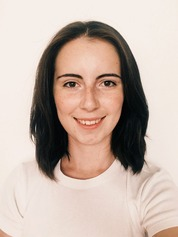
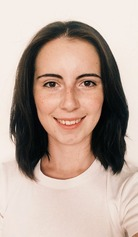
rules, contacts, about us

diff --git a/Pexeso/index.html b/Pexeso/index.html
@@ -33,54 +33,53 @@
 </nav>
 
 <div id="mainContent">
-   <a href="html/pexeso.html"> <div id="leftContent">pexeso game</div> </a>
-   <a href="../MemoryGame/memoryGame.html"> <div id="rightContent">memory game</div> </a>
+   <a href="html/pexeso.html"> <div id="leftContent">pexeso</div> </a>
+   <a href="../MemoryGame/memoryGame.html"> <div id="rightContent">memory</div> </a>
 </div>
 </div>
 
 <!-- first Container -->
-<div id="rules" class="container-fluid bg-1">
-  <div class="row my-row">
-          <div class="col-sm-6">
-            <div class="content">
-            <h3 class="margin">pexeso rules</h3>
-            <ul type="square">
-              <li> Mix up small cards. </li>
-              <li> They will be laid in rows and faced down. </li>
-              <li> Turn over any two small cards. </li>
-              <li> If they match then keep them. </li>
-              <li> If there is not match then turn small cards back over. </li>
-              <li> Remember text or picture and positions of the cards. </li>
-              <li> Second player will turn over small cards. </li>
-              <li> Memory game is over when all small cards have been matched. </li>
-              <li> The player with the most matches of the cards becomes winner. </li>
+<div id="rules" class="container-fluid bg-1 text-center">
+  <div class="read-more">
+  <div class="row my-row text-left">
+            <div class="col-sm-6">
+              <h3 class="margin text-center">pexeso rules</h3>
+              <ul type="square">
+                <li> The game must be played by two players. </li>
+                <li> The cards are automatically mixed up. </li>
+                <li> They are laid in playing field and faced down. </li>
+                <li> Turn over any two cards. </li>
+                <li> If they match you get the cards under your name as a point. </li>
+                <li> If there is no match then another player has turn. </li>
+                <li> Pexeso game is over when all cards are matched. </li>
+                <li> The player with the most matches of the cards becomes winner. </li>
             </ul>
           </div>
-        </div>
-    <div class="col-sm-6">
-      <div class="content">
-        <h3 class="margin">memory rules</h3>
+
+    <div class="col-md-6 text-left">
+        <h3 class="margin text-center">memory rules</h3>
           <ul type="square">
-            <li> Mix up small cards. </li>
-            <li> They will be laid in rows and faced down. </li>
-            <li> Turn over any two small cards. </li>
-            <li> If they match then keep them. </li>
-            <li> If there is not match then turn small cards back over. </li>
-            <li> Remember text or picture and positions of the cards. </li>
-            <li> Second player will turn over small cards. </li>
-            <li> Memory game is over when all small cards have been matched. </li>
-            <li> The player with the most matches of the cards becomes winner. </li>
+            <li> The game must be played by one player. </li>
+            <li> Remember positions of pictures as they will be shown for 3 seconds at the start. </li>
+            <li> Turn over any two cards you remembered as quick as possible. </li>
+            <li> The score depends on the time and the number of clicks. </li>
+            <li> If they match you get the cards under your name as a point.  </li>
+            <li> If there is not match, try again. </li>
+            <li> Memory game is over when all cards are matched. </li>
+            <li> You can exercise your memory by re-playing the game and trying to get better score. </li>
           </ul>
         </div>
       </div>
-</div>
-</div>
+    </div>
+  </div>
+
 
 <div id="aboutUs" class="container-fluid bg-2 text-center">
   <h3 class="margin">about us</h3>
   <div class="read-more text-left">
   <p><b>mt*csl</b> is a company founded by Mima, Thomas, Claudia, Sonia and Lucy.
-Launched in September of 2018, the site is focused at memo games with educational character.</p><br>
+Launched in September of 2018, the site is focused at memo games with educational character focused on eastern part of Slovakia, especially at Kosice city.
+</p><br>
 <p>mt*csl focuses on the creative community, with the goal of making the design and technology world personal.
   We don’t only cover games, objects and trends, but rather the story behind them.</p>
   <p>We believe the idea of <i>“game”</i> is one that stretches beyond the brain inside it, so we will, from time to time, have discussions about larger cultural issues that affect our community.</p>
@@ -132,7 +131,7 @@ Launched in September of 2018, the site is focused at memo games with educationa
   <div class="row my-row">
       <div class="col-sm-4">
         <div class="thumbnail">
-      <img src="img/Miriam.jpg" alt="Klaudia">
+      <img src="img/Claudia.jpg" alt="Klaudia">
     </div>
   </div>
 
@@ -152,13 +151,13 @@ Launched in September of 2018, the site is focused at memo games with educationa
       <div class="col-md-8 text-left">
         <div class="content">
           <h3 class="person-name hidden-xs-active text-left">sonia</h3><p>frot-end developer</p>
-          <p>Lorem ipsum dolor sit amet, consectetur adipisicing elit, sed do eiusmod tempor incididunt ut labore et dolore magna aliqua.
-            Ut enim ad minim veniam, quis nostrud exercitation ullamco laboris nisi ut aliquip ex ea commodo consequat.</p>
+          <p><b>P</b>art of creative team is the quietest person who doesn’t have any issues with anyone and who has open hands for helping others.
+            She will surprise you with typing skills in HTML and CSS.</p>
       </div>
   </div>
     <div class="col-sm-4 image-col"
     <div class="thumbnail">
-  <img src="img/Miriam.jpg" alt="Sona">
+  <img src="img/Sonia.jpg" alt="Sona">
   </div>
 </div>
 </div>
@@ -174,8 +173,9 @@ Launched in September of 2018, the site is focused at memo games with educationa
     <div class="col-md-8 text-left">
       <div class="content">
         <h3 class="person-name hidden-xs-active text-left">lucy</h3><p>frot-end developer</p>
-        <p>Lorem ipsum dolor sit amet, consectetur adipisicing elit, sed do eiusmod tempor incididunt ut labore et dolore magna aliqua.
-          Ut enim ad minim veniam, quis nostrud exercitation ullamco laboris nisi ut aliquip ex ea commodo consequat.</p>
+        <p><b>A</b>nother creative member is self-learner who is excited about bringing new ideas to the projects creation.
+          She is well-known for her communication skills and GIT work.
+          She can type in HTML, CSS and Bootstrap.</p>
           </div>
         </div>
       </div>
@@ -183,30 +183,29 @@ Launched in September of 2018, the site is focused at memo games with educationa
 
     <div class="mt-5 container">
       <div class="content text-center">
-          <p>The last member of the team is <b>michael</b>, who doesn't like to be photographed<br> but he exists :)</p>
+          <p><b>T</b>he last member of the team is our mentor <b>michael</b>, who doesn't like to be photographed but he exists :)</p>
           </div>
         </div>
   </div>
 
 <!-- third Container (Grid) -->
-<div class="container-fluid bg-3 text-center">
 <div id="contact" class="container-fluid bg-3 text-center">
   <h3 class="margin">contacts</h3><br>
-  <div class="row">
-    <div class="col-sm-4">
-      <p>Telephone number:
-      <br/>+421 905 654 490
-      <br/>Email address: info@akademiasovy.sk</p>
+  <div class="read-more">
+    <div class="row my-row text-left">
+    <div class="col-sm-6">
+      <p><b>mt*csl</b>
+         <br/>dneperská 1
+         <br/>040 12 košice
+         <br/>
+         <br/>+421 905 654 490
+         <br/>info@mtcsl.sk
+         </p>
     </div>
-    <div class="col-sm-4">
-      <p>IT academy SOVY
-         <br/>Dneperská 1
-         <br/>040 12 Košice</p>
+    <div class="col-md-6">
+      <img src="img/map.png" alt="Map" class="img-responsive margin">
+         </div>
        </div>
-       <div class="col-sm-4">
-         <img src="img/map.png" class="img-responsive margin" alt="Map"/>
-       </div>
-    </div>
   </div>
 </div>
 

diff --git a/MemoryGame/css/styleMemory.css b/MemoryGame/css/styleMemory.css
@@ -14,13 +14,23 @@ body {
 }
 
 .navbar-brand.navbar-text.text-warning.h1{
+<<<<<<< Updated upstream
    margin-left: 30px;
    font-style: italic;
+=======
+    margin-left: 30px;
+
+>>>>>>> Stashed changes
   }
 
+<<<<<<< Updated upstream
 .navbar.navbar-expand-lg{
    background: rgba(0,0,0,.6);
    height: 70px;
+=======
+  background: rgba(0,0,0,0);
+
+>>>>>>> Stashed changes
 }
 
 .navbar-nav {
@@ -28,7 +38,11 @@ body {
 }
 
 .ahref {
+<<<<<<< Updated upstream
    color: rgb(255, 193, 7);
+=======
+color: yellow;
+>>>>>>> Stashed changes
 }
 
 .ahref:hover {
@@ -198,6 +212,7 @@ body {
   margin-top: 8%;
 }
 
+<<<<<<< Updated upstream
 #newGame{
   margin: auto;
   margin-right: 15%;
@@ -217,3 +232,10 @@ body {
    width: 100%; /* The width is 100%, when the viewport is 800px or smaller */
 }
 }
+=======
+@media screen and (max-width: 800px) {
+	.left, .center, .right {
+	  width: 100%; /* The width is 100%, when the viewport is 800px or smaller */
+	}
+  }
+>>>>>>> Stashed changes

diff --git a/Pexeso/css/stylePexeso.css b/Pexeso/css/stylePexeso.css
@@ -15,7 +15,7 @@ body {
 
 .navbar-brand.navbar-text.text-warning.h1{
   margin-left: 30px;
-  font-style: italic;
+
 }
 
 .navbar.navbar-expand-lg{
@@ -101,12 +101,20 @@ body {
 
 
 #center {
+<<<<<<< Updated upstream
   display: inline-block;
   margin-top: 1%;
   margin-bottom: 1%;
   width:52%;
   background: rgba(128, 128, 128, 0.616); 
   padding-left: 1%;
+=======
+    display: inline-block;
+    margin-top: 1%;
+    margin-bottom: 1%;
+    width:51%;
+    background: grey;
+>>>>>>> Stashed changes
 }
 
 #left {

diff --git a/MemoryGame/memoryGame.html b/MemoryGame/memoryGame.html
@@ -17,7 +17,7 @@
   <nav class="navbar navbar-expand-lg">
 	<div class="navbar-header">
     <span class="icon-bar"></span>
-		<a href="../Pexeso/index.html" class="ahref"><span class="glyphicon glyphicon-home">Memo game</span></a>
+		<a href="../Pexeso/index.html" class="ahref"><span class="glyphicon glyphicon-home"><b>Memo game</b></span></a>
 	</div>
   </nav>
 </div>

diff --git a/Pexeso/css/aboutus.css b/Pexeso/css/aboutus.css
@@ -19,7 +19,8 @@ body {
         position: relative
 }
 
-.img {
+.thumbnail {   /* mozno odstranim */
+    height: 100%;
     width: 100%;
 }
 

diff --git a/Pexeso/css/style.css b/Pexeso/css/style.css
@@ -22,7 +22,6 @@ p {
 }
 .navbar-brand.navbar-text.text-warning.h1{
   margin-left: 30px;
-  font-style: italic
 }
 
 .navbar.navbar-expand-lg{
